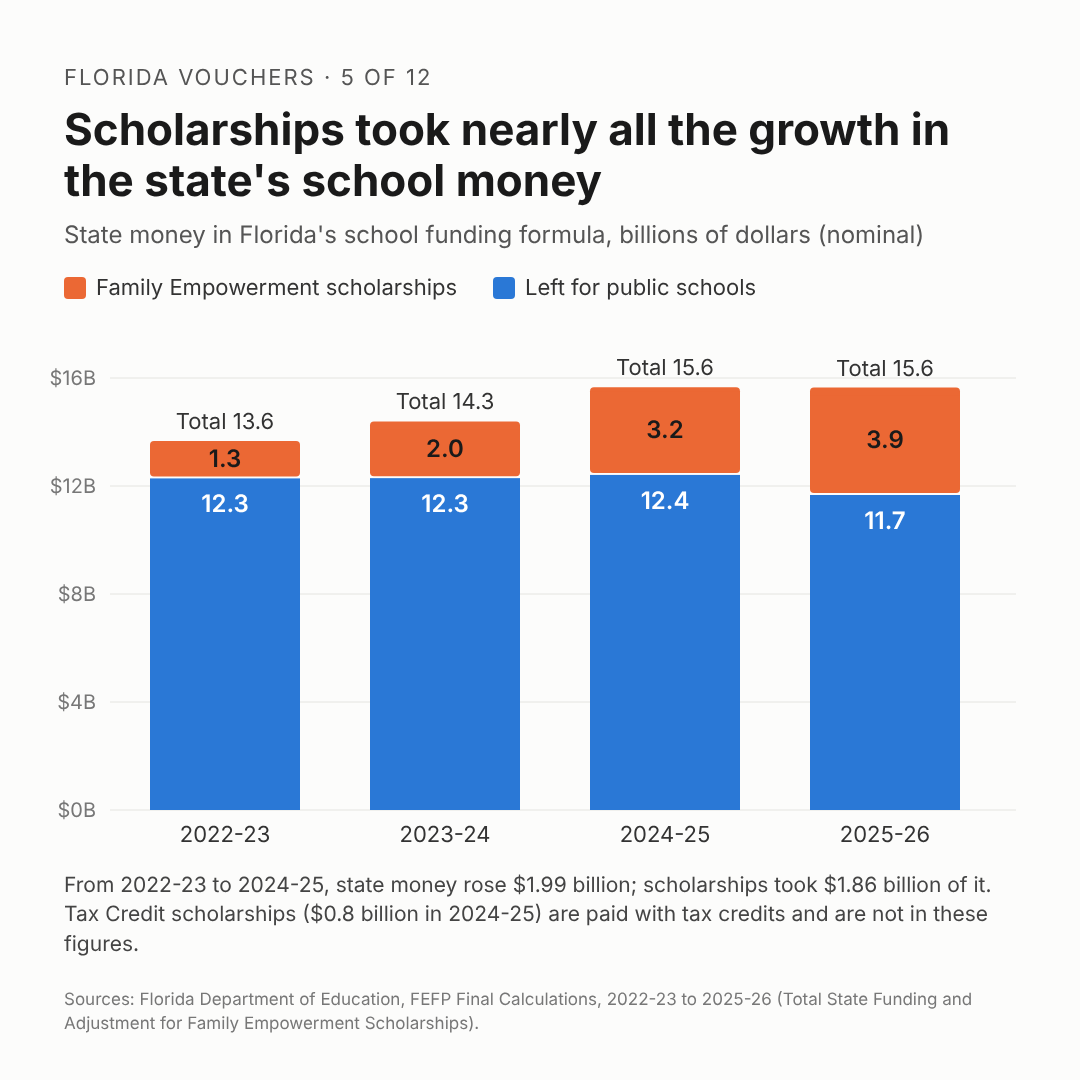
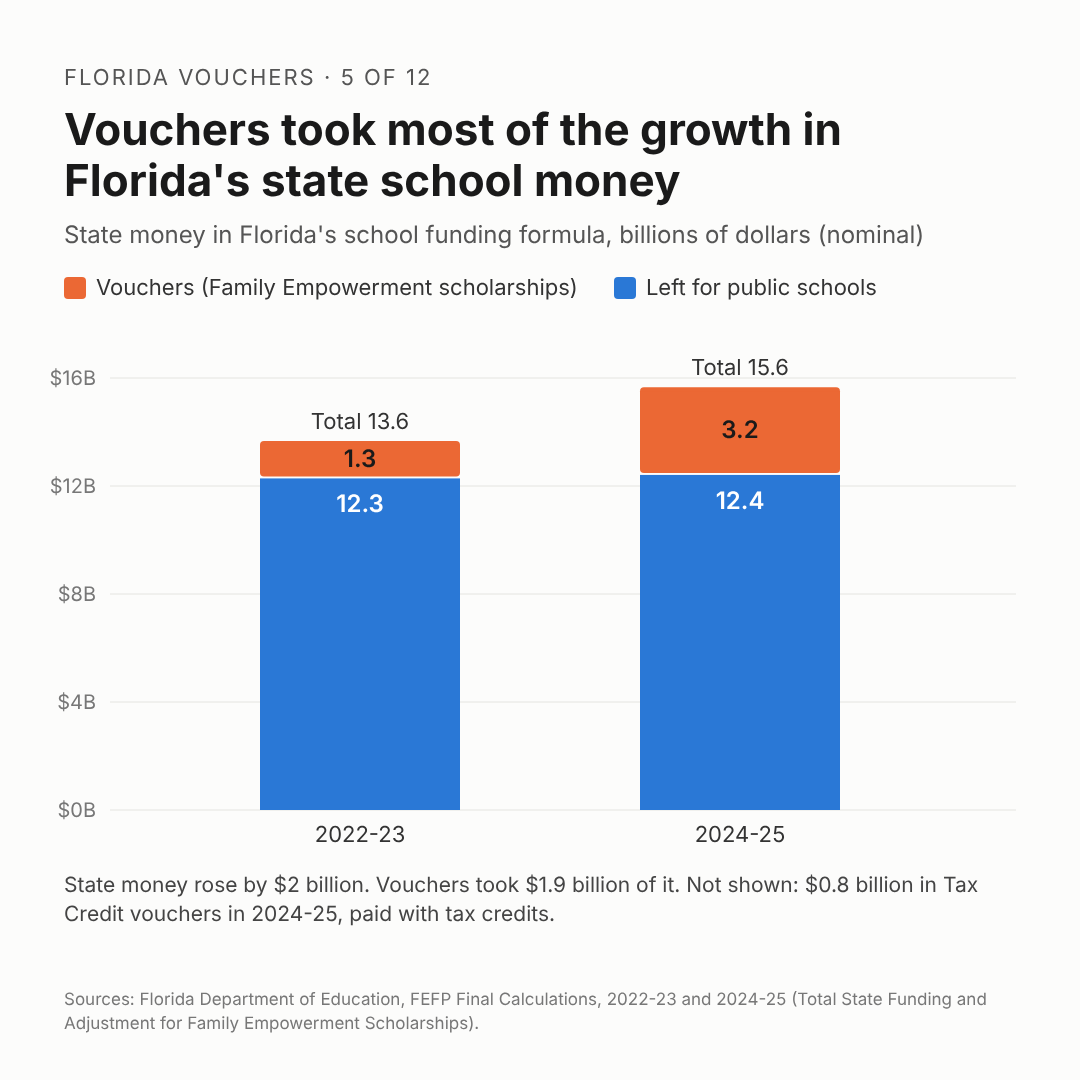
Post 5 draft 2: rewritten simpler around one idea; two-year image
Claude-Session: https://claude.ai/code/session_016LYyWm4MBRFt2tmnYoAYw5

diff --git a/series/florida-vouchers/05-what-vouchers-cost/post.md b/series/florida-vouchers/05-what-vouchers-cost/post.md
@@ -1,5 +1,5 @@
 ---
-title: "What Florida's Vouchers Cost, and Where the Money Comes From"
+title: "Do Florida's Vouchers Save Money? It Depends on Where the Children Came From"
 series: florida-vouchers
 number: 5
 status: draft
@@ -9,7 +9,7 @@ updated: 2026-11-03
 
 # Post 5 of 12: What vouchers cost, and where the money comes from
 
-Draft 1, 3 Nov 2026. First draft. Parts: the post text, the first comment (sources), the fact-check table, the notes (details kept out of the main text), and the editor's notes. Image: [image.png](image.png).
+Draft 2, 3 Nov 2026. Rewritten much simpler at RJ's request: one idea, few numbers. Parts: the post text, the first comment (sources), the fact-check table, the notes (details kept out of the main text), and the editor's notes. Image: [image.png](image.png).
 
 ---
 
@@ -17,33 +17,25 @@ Draft 1, 3 Nov 2026. First draft. Parts: the post text, the first comment (sourc
 
 Florida vouchers, 5 of 12
 
-What Florida's Vouchers Cost, and Where the Money Comes From
+Do Florida's Vouchers Save Money? It Depends on Where the Children Came From
 
-In 2008, the Legislature's auditors found that a Florida voucher program saved the state money, as long as most of its students would otherwise have been in public school. In 2023, the first year vouchers were open to every child, most new recipients came from private schools.
+In 2008, the Legislature's auditors found that a Florida voucher program saved the state money, because most of its students came from public schools. In 2023, the first year vouchers were open to every child, most new students came from private schools.
 
-In 2007-08, the Tax Credit Scholarship paid private school tuition for 21,493 children, at up to $3,750 each. The state's school funding formula provided $6,106 for each public school student. OPPAGA, the Legislature's research office, estimated that the program cost $79.2 million in lost corporate tax revenue and saved $118.1 million in school funding, for net savings of $38.9 million.
+The math behind a voucher's cost is simple. Florida already pays for every child in public school. When a child leaves for a private school with a voucher, the state pays for the voucher instead, and the voucher usually costs less. When a child who was already in private school gets a voucher, the state pays for a child it was not paying for before.
 
-The savings rested on one assumption. OPPAGA estimated that 90 percent of the students would have attended public school without a scholarship. At the time, new recipients had to come from a public school unless they were starting kindergarten or first grade. If only 60 percent would have attended public school, the report said, the savings disappear.
+In 2008, OPPAGA, the Legislature's research office, applied that math to the Tax Credit Scholarship. In 2007-08, the scholarship was worth up to $3,750. The state's school funding formula provided $6,106 for each public school student. OPPAGA estimated that the program saved the state $38.9 million that year.
 
-The reasoning is simple. The state already pays for each public school student. When one leaves with a scholarship, the state pays for the scholarship instead. When a child already in private school takes one, the state pays for a child it was not paying for before.
+The savings rested on one assumption: that about 90 percent of the students would otherwise have been in public school. That was reasonable then, because most new students had to come from a public school. If the share fell to 60 percent, OPPAGA said, the savings would disappear.
 
-In 2019, Florida created the Family Empowerment Scholarship, paid through the formula that funds school districts. In 2023, House Bill 1 opened both programs to every child. Before the vote, House staff estimated the first-year cost at $209.6 million. They counted no new cost for public school students who switched, because the formula already paid for them, and expected 58,315 private school students to take a new scholarship.
+In 2023, the Legislature opened vouchers to every child, including children already in private school. That fall, 69 percent of new voucher students had been in private school, 13 percent came from public schools, and 18 percent were starting kindergarten, according to Step Up For Students, the nonprofit that runs most of the programs.
 
-That fall, 69 percent of new scholarship students had been in private school, according to Step Up For Students, the nonprofit that runs most of the scholarships. Scholarship funding rose from $2.0 billion in 2022-23 to $3.98 billion in 2024-25, according to the state's auditor general.
+Spending on vouchers rose from $2.0 billion in 2022-23 to about $4.0 billion in 2024-25, according to the state's auditor general. Most of it, $3.2 billion, came from the state's school funding formula, the same money that pays for public schools. The rest, $0.8 billion, came through the Tax Credit Scholarship, paid by corporate donations that the state credits against taxes.
 
-Two kinds of money pay for it. Tax Credit scholarships, $0.8 billion in 2024-25, come from corporate donations the state credits against taxes, so their cost is revenue never collected and does not appear in the budget. Family Empowerment scholarships, $3.2 billion, come from the state's share of the formula.
+That changed what the state's school money pays for. Over those two years, the state's money in the formula grew from $13.6 billion to $15.6 billion, according to the Department of Education. Vouchers took $1.9 billion of the $2 billion increase. The part left for public schools barely changed. It rose by about $130 million, to $12.4 billion. Some of the voucher money follows children who left public schools, whom the state would have paid for anyway, and no state record says how many. The dollars are not adjusted for inflation.
 
-In 2024-25, that share ran short. The state had budgeted $2.79 billion for Family Empowerment and spent $3.19 billion, about $400 million more, the auditor general reported. At the end of the year, the Department of Education cut districts' formula funding by $250 million to stay within the appropriation, offset in part by $97 million from an enrollment stabilization fund. Under state law, only district funding is cut in a shortfall, not scholarships, according to Florida Senate staff. The net cut, about $153 million, was about half of 1 percent of the $28.6 billion in state and local school funding. Such cuts predate the universal program: districts lost $37 million in 2019-20.
+The two sides read these numbers differently. Step Up says that "every study shows the scholarships save state tax money." The studies it cites were done before 2023, when most students came from public schools. Sadaf Knight, chief executive of the Florida Policy Institute, a research group that opposed the 2023 law, said in 2025 that the cost of vouchers continues "to balloon to the detriment of public schools."
 
-The larger change is in what the state's money pays for. From 2022-23 to 2024-25, state money in the formula rose from $13.6 billion to $15.6 billion, according to the department's final calculations. Family Empowerment scholarships took $1.86 billion of the $1.99 billion increase, and the state money left for public schools rose $129 million, to $12.4 billion. In 2025-26, state money held at $15.6 billion while scholarships rose to $3.9 billion, and the state money left for public schools fell $743 million. Some of that money pays for children who left public schools and would otherwise be counted there; no state record says how much. Local property taxes for schools rose over the same years, which the next post takes up. All dollars here are nominal, not adjusted for inflation.
-
-In January 2026, the Florida Senate voted 38 to 0 for a bill by Sen. Don Gaetz, a Republican, to pay for Family Empowerment from its own fund, separate from district funding, as the auditor general had recommended. Quoting the auditor general, Sen. Gaetz said "whatever could go wrong has gone wrong." He added: "If this issue is left to fester, it will imperil school choice in our state." The House did not take up the bill.
-
-The two sides read the cost differently. Step Up says in a fact sheet that "every study shows the scholarships save state tax money," and compares scholarships of $7,250 to $7,850 in 2022-23 with $8,217 in formula funding for each public school student. The studies it cites predate 2023, when most recipients had to come from public schools. Sadaf Knight, chief executive of the Florida Policy Institute, a research group that opposed House Bill 1, said in January 2025 that the cost of vouchers continues "to balloon to the detriment of public schools."
-
-Supporters see a scholarship that costs less than a public school seat, so each child who switches saves money. Critics see a new cost for children who were already in private school, paid from the same pot as public schools.
-
-In 2008, the state's auditors said the program saved money if at least 60 percent of its students would otherwise have been in public school. The state has not published a new estimate of that share since House Bill 1. The next post asks what these changes mean for public schools' money per student, and who is making up the difference.
+In 2008, the state's auditors said the program saved money if at least 60 percent of its students would otherwise have been in public school. The state has not estimated that share since vouchers opened to every child. The next post asks what this means for public schools' money per student, and who makes up the difference.
 
 Sources are in the first comment.
 
@@ -53,18 +45,12 @@ Sources are in the first comment.
 
 Sources for this post:
 
-1. The 2007-08 savings estimate, its 90 percent assumption and the 60 percent break-even; students, maximum scholarship and per-student formula funding: OPPAGA Report 08-68, "The Corporate Income Tax Credit Scholarship Program Saves State Dollars," December 2008, pp. 2-4, 11-12. https://oppaga.fl.gov/Documents/Reports/08-68.pdf
-2. Family Empowerment Scholarship paid through the school funding formula: Florida Senate bill summary, SB 7070 (Chapter 2019-23, Laws of Florida). https://flsenate.gov/Committees/BillSummaries/2019/html/7070
-3. House staff's cost estimate for House Bill 1: Florida House PreK-12 Appropriations Subcommittee, bill analysis of HB 1, Feb. 24, 2023, pp. 21-22. https://www.flsenate.gov/Session/Bill/2023/1/Analyses/h0001b.PKA.PDF
-4. New scholarship students in fall 2023 and where they came from: News Service of Florida, Sept. 15, 2023, reporting Step Up For Students data as of Sept. 8, 2023. https://jaxtoday.org/2023/09/15/over-100000-new-students-got-florida-school-vouchers/
-5. Scholarship funding by program, 2022-23 and 2024-25; Family Empowerment budgeted and spent in 2024-25; the recommendation to fund Family Empowerment separately: Florida Auditor General Report 2026-046, November 2025, pp. 5-6, 10, 17. https://flauditor.gov/pages/pdf_files/2026-046.pdf
-6. How the Tax Credit Scholarship is funded: OPPAGA Report 08-68 (source 1), p. 1.
-7. State and local formula funding, scholarships and the 2024-25 cut: Florida Department of Education, FEFP Final Calculations for 2019-20 (https://www.fldoe.org/file/7507/1920FEFPFinalCalc.pdf), 2022-23 (https://www.fldoe.org/file/7507/22-23FEFPFinalCalc.pdf), 2023-24 (https://www.fldoe.org/file/7507/23-24FEFPFinalCalc.pdf), 2024-25 (https://cdn.fldoe.org/file/7507/2425FEFPFinal.pdf) and 2025-26 (https://www.fldoe.org/file/7507/25-26FEFPFinalCalc.pdf).
-8. Only district funding is reduced in a shortfall; the 2024-25 reduction; the bill's provisions and fees: Florida Senate bill analysis, CS/SB 318, Dec. 12, 2025, pp. 3, 21, 23-25. https://flsenate.gov/Session/Bill/2026/318/Analyses/2026s00318.ap.PDF
-9. Senate vote and House action on SB 318 (2026): Florida Senate bill history. https://m.flsenate.gov/Bill/318
-10. Sen. Gaetz's statements: Florida Senate President's Office press release, Jan. 14, 2026. https://flsenate.gov/PublishedContent/Offices/President/1_14_26_Senate_Passes_Legislation_to_Enhance_Transparency_Efficiency_for_School_Choice_Scholarships.pdf
-11. Step Up's cost argument: Step Up For Students, "Tax Credit Scholarship Financial Costs" (undated fact sheet). https://www.stepupforstudents.org/wp-content/uploads/23.1-FTC-Cost-Savings.pdf
-12. Sadaf Knight's statement: Florida Policy Institute press release, Jan. 14, 2025. https://www.floridapolicy.org/posts/growth-rate-of-floridas-private-school-vouchers-cause-for-alarm-groups-say
+1. The 2007-08 savings estimate, the 90 percent assumption, the 60 percent break-even, the maximum scholarship and per-student formula funding: OPPAGA Report 08-68, "The Corporate Income Tax Credit Scholarship Program Saves State Dollars," December 2008, pp. 3-4, 11-12. https://oppaga.fl.gov/Documents/Reports/08-68.pdf
+2. Where new voucher students came from, fall 2023: News Service of Florida, Sept. 15, 2023, reporting Step Up For Students data as of Sept. 8, 2023. https://jaxtoday.org/2023/09/15/over-100000-new-students-got-florida-school-vouchers/
+3. Voucher spending by program, 2022-23 and 2024-25: Florida Auditor General Report 2026-046, November 2025, Tables 2-4, p. 6. https://flauditor.gov/pages/pdf_files/2026-046.pdf
+4. State money in the school funding formula and the voucher share: Florida Department of Education, FEFP Final Calculations, 2022-23 (https://www.fldoe.org/file/7507/22-23FEFPFinalCalc.pdf) and 2024-25 (https://cdn.fldoe.org/file/7507/2425FEFPFinal.pdf).
+5. Step Up's statement: Step Up For Students, "Tax Credit Scholarship Financial Costs" (undated fact sheet). https://www.stepupforstudents.org/wp-content/uploads/23.1-FTC-Cost-Savings.pdf
+6. Sadaf Knight's statement: Florida Policy Institute press release, Jan. 14, 2025. https://www.floridapolicy.org/posts/growth-rate-of-floridas-private-school-vouchers-cause-for-alarm-groups-say
 
 ---
 
@@ -72,49 +58,39 @@ Sources for this post:
 
 | Claim in the post | Source and what it says |
 |---|---|
-| Summary: 2008 finding of savings if most students would otherwise be in public school | OPPAGA 08-68 (title: "...Saves State Dollars"); p. 4: "We estimated that 90% of these students would have attended public school if not for the scholarship"; p. 12: "Assuming 60% reduces the savings to the break-even point" |
-| Summary: in 2023, most new recipients came from private schools | Step Up data, Sept. 8, 2023 (News Service of Florida): 84,505 of 122,895 new students (69%) had been in private school. Matches post 2's summary |
-| 2007-08: 21,493 students; up to $3,750 each | OPPAGA 08-68, p. 3. (p. 2 also gives $3,950 as the current maximum; p. 3 ties $3,750 to 2007-08) |
-| $6,106 per public school student | OPPAGA 08-68, p. 11: savings estimated from "the educational expenditures the state would have incurred for these students ($6,106 each based on the Florida Educational Finance Program per student funding)" |
-| $79.2M lost revenue, $118.1M saved, $38.9M net | OPPAGA 08-68, pp. 4, 11: "net savings of $38.9 million"; $118.1M - $79.2M = $38.9M; $118.1M / $79.2M = 1.49 ("the state saved $1.49 in education funding for every dollar loss in corporate income tax revenue") |
-| 90 percent assumption; 60 percent break-even | OPPAGA 08-68, pp. 4, 12, quoted above |
-| New recipients had to come from public school unless starting K or 1 | OPPAGA 08-68, eligibility (post 1 and 2 fact-check tables) |
-| Reasoning: the state already pays for each public school student, etc. | House PKA analysis of HB 1, p. 21: "Any current public school student who may elect to 'choice' a scholarship due to the expanded eligibility is already funded in the Florida Education Finance Program (FEFP); therefore, there would be no fiscal impact." The private school case follows from the same analysis, which counts newly eligible private school students as the cost |
-| 2019: Family Empowerment paid through the formula | SB 7070 summary: "funded through the FEFP" |
-| 2023: HB 1 opened both programs to every child, including private school students | Senate summary of HB 1; House PKA analysis (post 2) |
-| House staff: $209.6M first-year cost; no cost for public school switchers; 58,315 private school students | House PKA analysis, Feb. 24, 2023, p. 21: "Total Amount $209.6 million" ($112.1M for expanding FES-EO eligibility, $97.5M for raising the FES-UA annual increase); p. 22: "58,315 private school students would be awarded a new FES-EO scholarship" (116,603 eligible at 50 percent participation) |
-| 69 percent of new students that fall had been in private school | Step Up data as of Sept. 8, 2023 (News Service of Florida): 84,505 / 122,895 = 68.8% |
-| $2.0B (2022-23) to $3.98B (2024-25) | Auditor General 2026-046, Tables 2-4 (p. 6): 2022-23 $637.3M + $673.5M + $697.7M = $2,008.5M; 2024-25 $2,004.2M + $1,169.6M + $804.5M = $3,978.3M |
-| Tax Credit $0.8B in 2024-25; donations credited against taxes; not in the budget | Auditor General Table 4: $804,519,418; p. 5: FTC "Funded by Corporate Contributions." OPPAGA 08-68, p. 1: corporations contribute to scholarship funding organizations and receive tax credits |
-| Family Empowerment $3.2B in 2024-25, from the state's share of the formula | Auditor General Tables 2-3: $2,004.2M + $1,169.6M = $3,173.8M; p. 5: FES "Funded by FEFP Funds." 2024-25 FEFP Final Calculation: "Adjustment for Family Empowerment Scholarships" ($3,173,823,878). HB 7045 summary: scholarships funded "with state funds only" |
-| Budgeted $2.79B, spent $3.19B, about $400M more | Auditor General p. 10: budgeted "$2,790,276,311"; "by June 2025, FES Program expenditures (net of recoupments of ineligible amounts) totaled $3,188,043,518"; difference $397,767,207 (14 percent over) |
-| District funding reduced $250M; $97M stabilization offset | 2024-25 FEFP Final Calculation (Nov. 5, 2025): "Proration to Appropriation" ($250,149,259); Educational Enrollment Stabilization $97,295,165. CS/SB 318 analysis, p. 21: "The 2024-2025 FEFP Final Calculation included a proration to available funds, reducing the calculated FEFP by $250,149,259"; "offset by $97,295,165 because of funding provided through the Educational Enrollment Stabilization program" |
-| Only district funding is reduced, not scholarships | CS/SB 318 analysis, p. 21: "Under current law, only school district FEFP funding is prorated, FES scholarship awards are not impacted." |
-| Net cut about $153M, about half of 1 percent of $28.6B | $250,149,259 - $97,295,165 = $152,854,094; / $28,570,138,541 (2024-25 Final Calculation, Total Funding) = 0.54% |
-| 2019-20 cut of $37M | 2019-20 FEFP Final Calculation: "Proration to Appropriation" ($37,423,345) |
-| State formula money $13.6B (2022-23) to $15.6B (2024-25); FES took $1.86B of $1.99B; left for public schools up $129M, to $12.4B | Final Calculations, Total State Funding: $13,592,573,924 and $15,583,715,574 (+$1,991,141,650). FES adjustment: $1,311,503,892 and $3,173,823,878 (+$1,862,319,986; 93.5% of the increase). Left: $12,281,070,032 and $12,409,891,696 (+$128,821,664) |
-| 2025-26: state money $15.6B, scholarships $3.9B, left for public schools down $743M | 2025-26 Final Calculation (Oct. 5, 2026): Total State Funding $15,573,752,524; FES adjustment ($3,906,797,314); left $11,666,955,210; change from 2024-25: -$742,936,486 |
-| Some of that money pays for children who left public schools; no record says how much | House PKA analysis treats public school switchers as already funded. Step Up's fall 2023 data give the split for new students only; no state record splits all scholarship students by prior school (post 2) |
-| Local property taxes rose | Final Calculations, Total Local Funding: $10,960,691,462 (2022-23), $12,986,422,967 (2024-25), $13,658,001,644 (2025-26). Post 6 covers it |
-| Jan. 2026: Senate 38-0 for Gaetz's bill to fund FES separately, as the auditor recommended | Senate bill history: passed the Senate 38-0 on Jan. 14, 2026; died in House messages March 13, 2026. CS/SB 318 analysis, p. 23: creates s. 1011.687, F.S., "to establish a categorical fund for implementing the FES Program"; p. 25: SFO fee "from up to 3 percent to up to 2 percent," FES fee "from 2.5 percent to 1.5 percent." Auditor General p. 17: recommends the Legislature "move the FES-EO and FES-UA Program into a separate silo of the FEFP." Senate release: FES money "would come out of each school district's FEFP calculation and be funded separately within the FEFP" |
-| Gaetz quotes | Senate President's Office release, Jan. 14, 2026: quoting the Auditor General, "whatever could go wrong has gone wrong"; "If this issue is left to fester, it will imperil school choice in our state." (Verbatim per the release; see caveats) |
-| Gaetz is a Republican | Post 3 (Senate records) |
-| Step Up quote and figures | Step Up fact sheet (undated; latest data 2022-23): "Every study shows the scholarships save state tax money"; scholarships average "$7,250 and $7,850" vs "$8,217" in public operational funding per student. Its cited studies run from 2002 to 2019 (Collins Center, TaxWatch, OPPAGA 2008 and 2010, Revenue Estimating Conference 2012, House 2014, EdChoice 2016 and 2019) |
-| Studies done when most recipients had to come from public schools | The studies cited predate HB 1 (2023). OPPAGA 08-68 documents the prior-public-school rule; post 2 notes say the rule ended at some point before 2023 (year not verified). So "most" rather than "all" |
-| Knight quote; FPI opposed HB 1 | FPI release, Jan. 14, 2025: Sadaf Knight, CEO: "the cost of private school vouchers continue to balloon to the detriment of public schools" (the post quotes "to balloon to the detriment of public schools"). FPI opposed the law (News Service of Florida, Sept. 15, 2023: "strongly opposed") |
-| The state has not published a new estimate of that share since HB 1 | Checked: Auditor General 2026-046; CS/SB 318 analysis; Education Estimating Conference, Aug. 11, 2026; OPPAGA search results. None estimates what share of current scholarship students would otherwise be in public school. Step Up's fall 2023 split covers new students only |
+| 2008 finding of savings; most students came from public schools | OPPAGA 08-68 (title: "...Saves State Dollars"); p. 4: "We estimated that 90% of these students would have attended public school if not for the scholarship." Eligibility required prior public school attendance except for kindergarten and first grade (OPPAGA 08-68; posts 1-2) |
+| In 2023 most new students came from private schools | Step Up data, Sept. 8, 2023: 84,505 of 122,895 (68.8%) |
+| The math: the state already pays for public school students; a voucher for a switcher replaces that cost; a voucher for a private school student is new | House PreK-12 Appropriations Subcommittee analysis of HB 1, Feb. 24, 2023, p. 21: a public school student who takes a scholarship "is already funded in the Florida Education Finance Program (FEFP); therefore, there would be no fiscal impact"; the analysis counts newly eligible private school students as the cost |
+| "The voucher usually costs less" | 2007-08: up to $3,750 vs $6,106 (OPPAGA 08-68, pp. 3, 11). 2022-23: average scholarships of $7,250 to $7,850 vs $8,217 in formula funding per public student (Step Up fact sheet). 2024-25: average $8,000 per scholarship student (post 1) vs $8,881 in state and local formula money per public student, net of scholarships (project spreadsheet). "Usually" because disability scholarships can cost more |
+| Up to $3,750 in 2007-08; $6,106 per public school student | OPPAGA 08-68, p. 3 ($3,750 maximum for 2007-08); p. 11: "$6,106 each based on the Florida Educational Finance Program per student funding" |
+| Saved $38.9 million | OPPAGA 08-68, p. 4: "net savings of $38.9 million" ($118.1M saved - $79.2M forgone revenue) |
+| 90 percent assumption; savings disappear at 60 percent | OPPAGA 08-68, p. 4 (quoted above); p. 12: "Assuming 60% reduces the savings to the break-even point." |
+| Most new students had to come from a public school then | OPPAGA 08-68 eligibility: prior-year public school, renewal, or entering kindergarten or first grade |
+| 2023: opened to every child, including those in private school | Senate summary of HB 1 (Chapter 2023-16); House PKA analysis (post 2) |
+| 69 / 13 / 18 percent | Step Up, Sept. 8, 2023: 84,505 private, 16,096 public, 22,294 kindergarten, of 122,895 (68.8 / 13.1 / 18.1) |
+| $2.0B (2022-23) to about $4.0B (2024-25) | Auditor General Tables 2-4: $2,008.5M; $3,978.3M |
+| $3.2B from the formula; $0.8B Tax Credit, donations credited against taxes | Auditor General Tables 2-3: $2,004.2M + $1,169.6M = $3,173.8M; p. 5: FES "Funded by FEFP Funds"; Table 4: $804.5M; p. 5: FTC "Funded by Corporate Contributions." OPPAGA 08-68, p. 1, on the credits |
+| State money in the formula $13.6B to $15.6B; vouchers took $1.9B of the $2B increase; part left for public schools rose about $130M, to $12.4B | Final Calculations, Total State Funding: $13,592,573,924 (2022-23), $15,583,715,574 (2024-25); increase $1,991,141,650. Adjustment for Family Empowerment Scholarships: $1,311,503,892 and $3,173,823,878; increase $1,862,319,986 (93.5%). Left: $12,281,070,032 and $12,409,891,696 (both about $12.3-12.4B; up $128.8M) |
+| Some voucher money follows children who left public schools; no record says how many | Step Up's fall 2023 split covers new students only; no state record splits all scholarship students by prior school (post 2) |
+| Nominal dollars | All figures as reported |
+| Step Up quote; its studies predate 2023 | Step Up fact sheet: "Every study shows the scholarships save state tax money"; cited studies run 2002 to 2019 |
+| Knight quote; FPI opposed the 2023 law | FPI release, Jan. 14, 2025: "the cost of private school vouchers continue to balloon to the detriment of public schools" (post quotes "to balloon to the detriment of public schools"). News Service of Florida, Sept. 15, 2023: FPI "strongly opposed" the expansion |
+| The state has not estimated that share since 2023 | Checked: Auditor General 2026-046; CS/SB 318 analysis (Dec. 2025); Education Estimating Conference (Aug. 2026); OPPAGA search. None estimates the share of current scholarship students who would otherwise be in public school |
 
 **Caveats:**
-- The Auditor General and the Final Calculation describe the 2024-25 shortfall with different figures. The Auditor General says a May 2025 budget amendment released $118.0 million from the stabilization program and the 24th and final payment was still reduced by $47 million (Exhibit B: $47,099,007); a further $47,117,395 was released on Nov. 6, 2025 to meet "outstanding obligations." The Final Calculation (Nov. 5, 2025) shows a $250.1 million proration and a $97.3 million stabilization allocation. The post uses the Final Calculation, which Senate staff also cite. To reconcile before posting.
-- The Auditor General links the shortfall to "unexpected funding demand" and says scholarship participation "significantly exceeded expectations," but also cites delays in surveys, calculations and cross-checks. The post does not say scholarships alone caused the cut.
-- The Gaetz quotes were read through a summary of the release; confirm the exact wording against the PDF before posting.
-- Whether the 2026 budget changed where scholarships sit in the formula was not confirmed: the Senate's May 2026 proposal (SB 2500-E as introduced) showed a separate "Scholarship Funding Allocation" of $4.48 billion, but the department's July calculation shows the usual adjustment.
 - All dollars are nominal.
 
 ---
 
 ## Notes: details kept out of the main text
 
+- **Moved from the text in draft 2 (RJ: "way too complex").** All accurate and sourced; draft 1's fact-check rows are in the git history (commit on 3 Nov).
+  - *The 2024-25 shortfall.* The state budgeted $2,790,276,311 for Family Empowerment and spent $3,188,043,518, about $400 million more (Auditor General 2026-046, p. 10). The 2024-25 Final Calculation cut district funding by $250,149,259 ("Proration to Appropriation"), offset by $97,295,165 from the Educational Enrollment Stabilization program; net about $153 million, about 0.5 percent of $28.6 billion in state and local funding. "Under current law, only school district FEFP funding is prorated, FES scholarship awards are not impacted" (CS/SB 318 analysis, p. 21). Districts were also prorated $37,423,345 in 2019-20 (Final Calculation). The Auditor General gives different figures ($118.0 million stabilization release, $47 million cut to the final payment, $47.1 million released Nov. 6, 2025); to reconcile before use. Good material for post 6 or 7.
+  - *Sen. Gaetz's bill.* CS/SB 318 (2026) would have funded Family Empowerment from its own fund, as the Auditor General recommended (p. 17: "move the FES-EO and FES-UA Program into a separate silo of the FEFP"), and cut administrative fees. Passed the Senate 38-0 on Jan. 14, 2026; died in the House March 13, 2026. Sen. Gaetz, quoting the Auditor General: "whatever could go wrong has gone wrong"; "If this issue is left to fester, it will imperil school choice in our state" (Senate President's Office release, Jan. 14, 2026; confirm wording in the PDF). For post 9.
+  - *House staff's 2023 estimate.* $209.6 million in first-year cost; no cost counted for public school switchers ("already funded in the Florida Education Finance Program (FEFP); therefore, there would be no fiscal impact"); 58,315 private school students expected to take a new scholarship (House PKA analysis of HB 1, Feb. 24, 2023, pp. 21-22).
+  - *OPPAGA's dollar breakdown.* $118.1 million saved in school funding, $79.2 million in lost tax revenue; $1.49 saved per dollar of credit (OPPAGA 08-68, pp. 4, 11). 21,493 students in 2007-08.
+  - *2025-26.* State money $15,573,752,524; Family Empowerment $3,906,797,314; left for public schools $11,666,955,210, down $742.9 million from 2024-25 (2025-26 Final Calculation, Oct. 5, 2026). Draft 1's image showed it.
+  - *Step Up's per-student comparison.* Scholarships averaging $7,250 to $7,850 in 2022-23 against $8,217 in formula funding per public student (Step Up fact sheet, undated).
 - **OPPAGA's 2010 update.** For 2008-09, OPPAGA estimated savings of $36.2 million, assuming 95 percent of recipients would otherwise have attended public school (OPPAGA research memorandum, March 1, 2010, https://www.fldoe.org/core/fileparse.php/5423/urlt/OPPAGA_March_2010_Report.pdf). The memo gives no break-even share; our arithmetic from its figures ($82.2 million in forgone taxes against $5,872 x 21,219 = $124.6 million in potential savings) puts it near 66 percent. Inference, not OPPAGA's figure.
 - **Our estimate of the new cost for 2023-24 (not used).** 84,505 students already in private school x the 2023-24 average award of about $7,420 (all scholarship dollars / all scholarship students, Auditor General) = about $627 million a year. Rough: the average includes disability scholarships and home-schooling accounts. FPI estimated $676 million for the same group (post 2 notes). Neither is a state estimate.
 - **House estimate vs Step Up count.** House staff expected 58,315 private school students in the full year in the general scholarship; Step Up counted 84,505 by Sept. 8, 2023, possibly including other scholarships. Not strictly comparable (post 2 notes).
@@ -132,6 +108,15 @@ Sources for this post:
 ---
 
 ## Editor's notes
+
+**Draft 2 (3 Nov, RJ: "way too complex"):**
+- Rewritten around one idea: whether vouchers save money depends on where the children would otherwise be. About 560 words, down from about 900; about a dozen numbers, down from about 40.
+- New headline that states the point as a question and its answer.
+- Opens with the plain-language math, then OPPAGA's 2008 estimate (one dollar figure, not three), the 90 and 60 percent, the 2023 split, total spending, and what share of new state school money went to vouchers.
+- Moved to the notes: the 2024-25 shortfall and district cut, Sen. Gaetz's 2026 bill, House staff's 2023 estimate, the 2025-26 figures, OPPAGA's breakdown and Step Up's per-student comparison. The shortfall and Gaetz's bill may fit post 6, 7 or 9.
+- Dropped the separate supporters/critics summary; the Step Up and Knight paragraph already carries both sides.
+- Image redrawn with two years only (2022-23 and 2024-25), matching the text.
+
 
 **Draft 1 (3 Nov 2026, RJ: start on post 5):**
 - Story told in date order: OPPAGA's 2007-08 estimate and its assumption, the reasoning House staff later used, Family Empowerment (2019), House Bill 1's cost estimate (2023), the fall 2023 split, the 2024-25 overspending and cut, the formula shares through 2025-26, Sen. Gaetz's 2026 bill.
